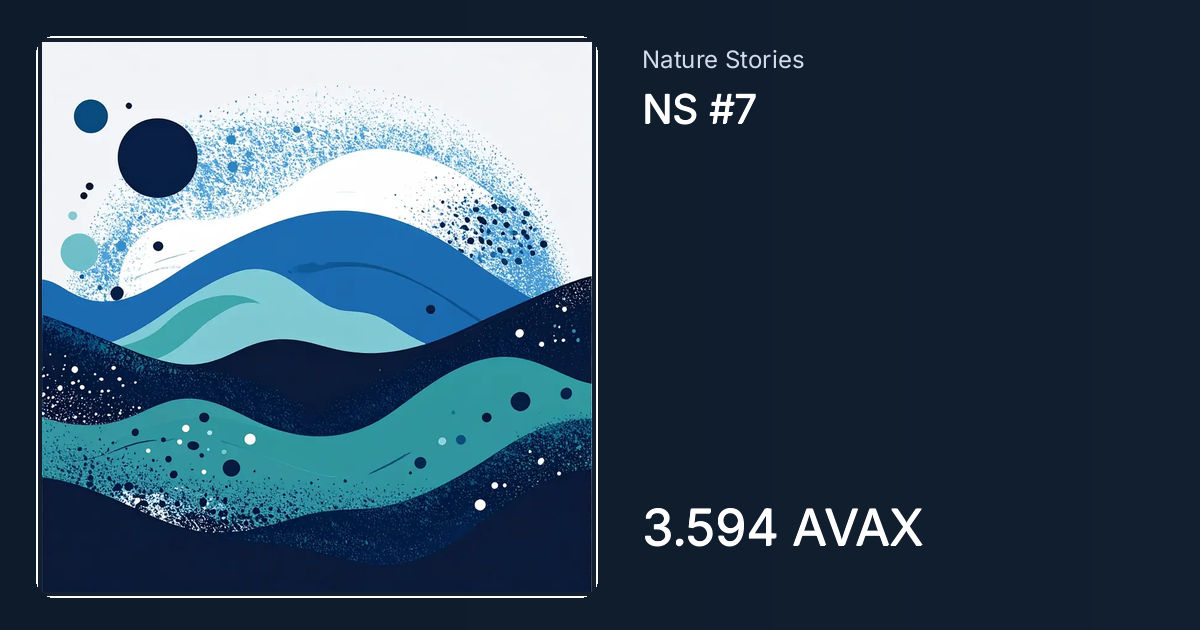
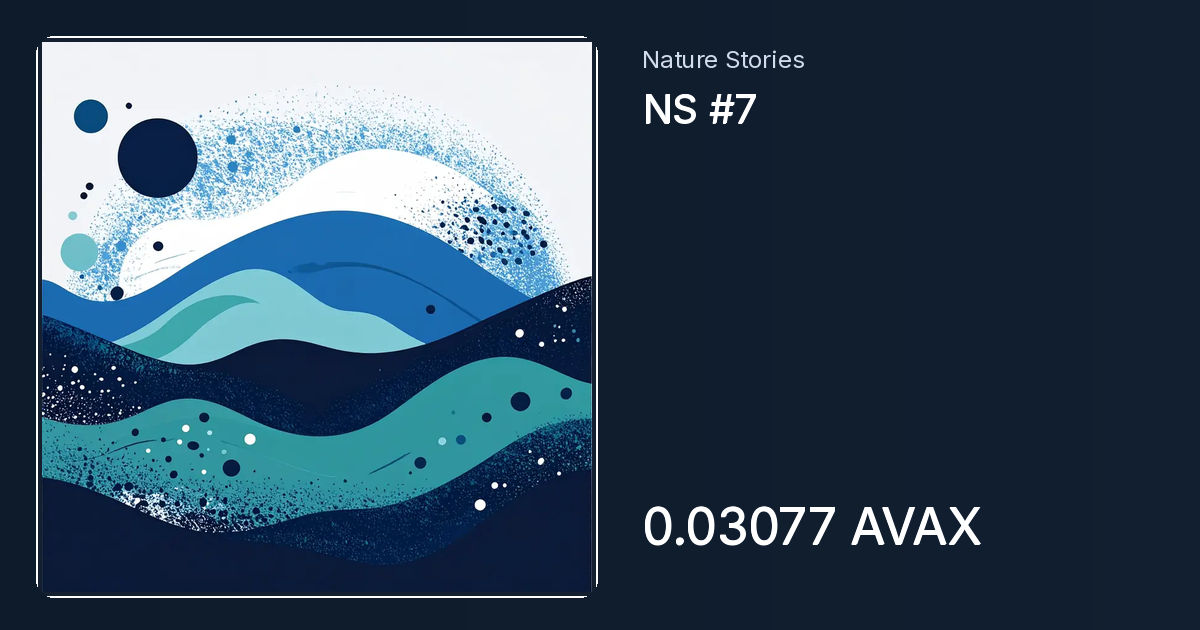
OG landings avalanche_nature_stories

diff --git a/nft/avalanche-nature-stories/7.html b/nft/avalanche-nature-stories/7.html
@@ -3,20 +3,20 @@
 <head>
     <meta charset="UTF-8">
     <meta name="viewport" content="width=device-width, initial-scale=1.0">
-    <meta name="description" content="3.594 AVAX · Nature Stories — Listed">
+    <meta name="description" content="0.03077 AVAX · Nature Stories — Listed">
     <title>NS #7 | Jack Beatnic Gallery</title>
     <meta property="og:type" content="website">
     <meta property="og:url" content="https://jackbeatnic.github.io/nft/avalanche-nature-stories/7.html">
     <meta property="og:title" content="NS #7 | Jack Beatnic Gallery">
-    <meta property="og:description" content="3.594 AVAX · Nature Stories — Listed">
-    <meta property="og:image" content="https://jackbeatnic.github.io/assets/og/avalanche-nature-stories-7.jpg?v=202609190040">
+    <meta property="og:description" content="0.03077 AVAX · Nature Stories — Listed">
+    <meta property="og:image" content="https://jackbeatnic.github.io/assets/og/avalanche-nature-stories-7.jpg?v=202609201826">
     <meta property="og:image:width" content="1200">
     <meta property="og:image:height" content="630">
     <meta name="twitter:card" content="summary_large_image">
     <meta name="twitter:site" content="@JackBeatnicAI">
     <meta name="twitter:title" content="NS #7 | Jack Beatnic Gallery">
-    <meta name="twitter:description" content="3.594 AVAX · Nature Stories — Listed">
-    <meta name="twitter:image" content="https://jackbeatnic.github.io/assets/og/avalanche-nature-stories-7.jpg?v=202609190040">
+    <meta name="twitter:description" content="0.03077 AVAX · Nature Stories — Listed">
+    <meta name="twitter:image" content="https://jackbeatnic.github.io/assets/og/avalanche-nature-stories-7.jpg?v=202609201826">
     <meta name="twitter:image:alt" content="NS #7 | Jack Beatnic Gallery">
     <link rel="canonical" href="https://jackbeatnic.github.io/nft/avalanche-nature-stories/7.html">
     <script>location.replace("https://jackbeatnic.github.io/?work=7&collection=avalanche_nature_stories&section=ai_art&ai=evm&edition=avalanche");</script>

diff --git a/nft/sui-nature-stories-tradeport/7.html b/nft/sui-nature-stories-tradeport/7.html
@@ -9,14 +9,14 @@
     <meta property="og:url" content="https://jackbeatnic.github.io/nft/sui-nature-stories-tradeport/7.html">
     <meta property="og:title" content="NS #7 S | Jack Beatnic Gallery">
     <meta property="og:description" content="Sui · Nature Stories SE — Mint">
-    <meta property="og:image" content="https://jackbeatnic.github.io/assets/og/sui-nature-stories-tradeport-7.jpg?v=202609190040">
+    <meta property="og:image" content="https://jackbeatnic.github.io/assets/og/sui-nature-stories-tradeport-7.jpg?v=202609201826">
     <meta property="og:image:width" content="1200">
     <meta property="og:image:height" content="630">
     <meta name="twitter:card" content="summary_large_image">
     <meta name="twitter:site" content="@JackBeatnicAI">
     <meta name="twitter:title" content="NS #7 S | Jack Beatnic Gallery">
     <meta name="twitter:description" content="Sui · Nature Stories SE — Mint">
-    <meta name="twitter:image" content="https://jackbeatnic.github.io/assets/og/sui-nature-stories-tradeport-7.jpg?v=202609190040">
+    <meta name="twitter:image" content="https://jackbeatnic.github.io/assets/og/sui-nature-stories-tradeport-7.jpg?v=202609201826">
     <meta name="twitter:image:alt" content="NS #7 S | Jack Beatnic Gallery">
     <link rel="canonical" href="https://jackbeatnic.github.io/nft/sui-nature-stories-tradeport/7.html">
     <script>location.replace("https://jackbeatnic.github.io/?work=7&collection=sui_nature_stories_tradeport&section=ai_art&ai=sui");</script>

diff --git a/nft/avalanche-nature-jam/7.html b/nft/avalanche-nature-jam/7.html
@@ -9,14 +9,14 @@
     <meta property="og:url" content="https://jackbeatnic.github.io/nft/avalanche-nature-jam/7.html">
     <meta property="og:title" content="JB NJ #0007 | Jack Beatnic Gallery">
     <meta property="og:description" content="484.4 AVAX · Nature Jam — Listed">
-    <meta property="og:image" content="https://jackbeatnic.github.io/assets/og/avalanche-nature-jam-7.jpg?v=202609190040">
+    <meta property="og:image" content="https://jackbeatnic.github.io/assets/og/avalanche-nature-jam-7.jpg?v=202609201826">
     <meta property="og:image:width" content="1200">
     <meta property="og:image:height" content="630">
     <meta name="twitter:card" content="summary_large_image">
     <meta name="twitter:site" content="@JackBeatnicAI">
     <meta name="twitter:title" content="JB NJ #0007 | Jack Beatnic Gallery">
     <meta name="twitter:description" content="484.4 AVAX · Nature Jam — Listed">
-    <meta name="twitter:image" content="https://jackbeatnic.github.io/assets/og/avalanche-nature-jam-7.jpg?v=202609190040">
+    <meta name="twitter:image" content="https://jackbeatnic.github.io/assets/og/avalanche-nature-jam-7.jpg?v=202609201826">
     <meta name="twitter:image:alt" content="JB NJ #0007 | Jack Beatnic Gallery">
     <link rel="canonical" href="https://jackbeatnic.github.io/nft/avalanche-nature-jam/7.html">
     <script>location.replace("https://jackbeatnic.github.io/?work=7&collection=avalanche_nature_jam&section=ai_art&ai=evm&series=nature_jam&edition=avalanche");</script>

diff --git a/nft/xrpl-jb-ai-nature/7.html b/nft/xrpl-jb-ai-nature/7.html
@@ -9,14 +9,14 @@
     <meta property="og:url" content="https://jackbeatnic.github.io/nft/xrpl-jb-ai-nature/7.html">
     <meta property="og:title" content="JBN #7 X | Jack Beatnic Gallery">
     <meta property="og:description" content="0.1 XRP · Jack Beatnic — Mint">
-    <meta property="og:image" content="https://jackbeatnic.github.io/assets/og/xrpl-jb-ai-nature-7.jpg?v=202609190040">
+    <meta property="og:image" content="https://jackbeatnic.github.io/assets/og/xrpl-jb-ai-nature-7.jpg?v=202609201826">
     <meta property="og:image:width" content="1200">
     <meta property="og:image:height" content="630">
     <meta name="twitter:card" content="summary_large_image">
     <meta name="twitter:site" content="@JackBeatnicAI">
     <meta name="twitter:title" content="JBN #7 X | Jack Beatnic Gallery">
     <meta name="twitter:description" content="0.1 XRP · Jack Beatnic — Mint">
-    <meta name="twitter:image" content="https://jackbeatnic.github.io/assets/og/xrpl-jb-ai-nature-7.jpg?v=202609190040">
+    <meta name="twitter:image" content="https://jackbeatnic.github.io/assets/og/xrpl-jb-ai-nature-7.jpg?v=202609201826">
     <meta name="twitter:image:alt" content="JBN #7 X | Jack Beatnic Gallery">
     <link rel="canonical" href="https://jackbeatnic.github.io/nft/xrpl-jb-ai-nature/7.html">
     <script>location.replace("https://jackbeatnic.github.io/?work=7&collection=xrpl_jb_ai_nature&section=ai_art&ai=xrpl");</script>
